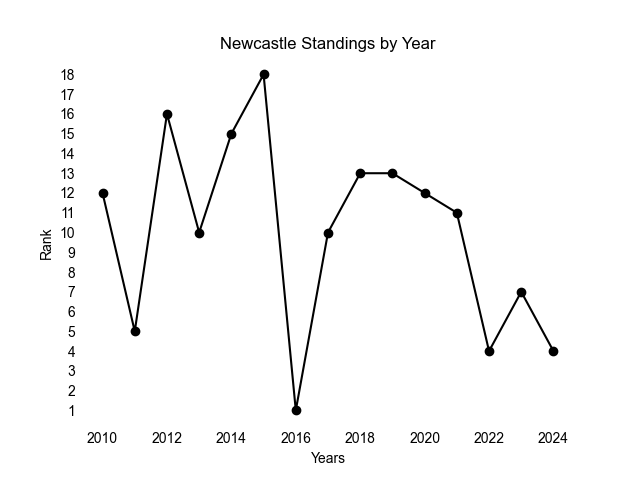
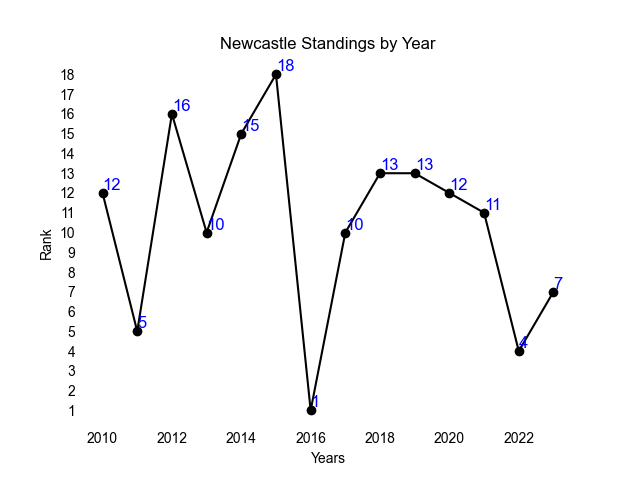
Plotting Stats

diff --git a/main.py b/main.py
@@ -475,8 +475,10 @@ with tab2:
 	years = list(standings_dict.keys())
 	years.pop(16)
 	years.pop(15)
+	years.pop(14)
 	rank.pop(16)
 	rank.pop(15)
+	rank.pop(14)
 	ic(years)
 	ic(rank)
 	labelx = [1, 2, 3, 4, 5, 6, 7, 8, 9, 10, 11, 12, 13, 14, 15, 16]
@@ -486,10 +488,10 @@ with tab2:
 
 	with col1:
 		st.write('Col1')
-		plt.style.use('grayscale')
+		# plt.style.use('grayscale')
 		plt.plot(years, rank, marker='o')
 		for i in range(len(years)):
-			plt.text(years[i], years[i], str(rank[i]), fontsize=12, ha='right', va='bottom')
+			plt.text(years[i], rank[i], str(rank[i]), fontsize=12, va='bottom', ha='left', wrap=True, color='blue')
 		# plt.xticks(x, labelx)
 		plt.yticks(range(int(min(rank)), int(max(rank)) + 1))
 		# plt.gca().set_xticklabels(labelx)  # Set the tick labels
